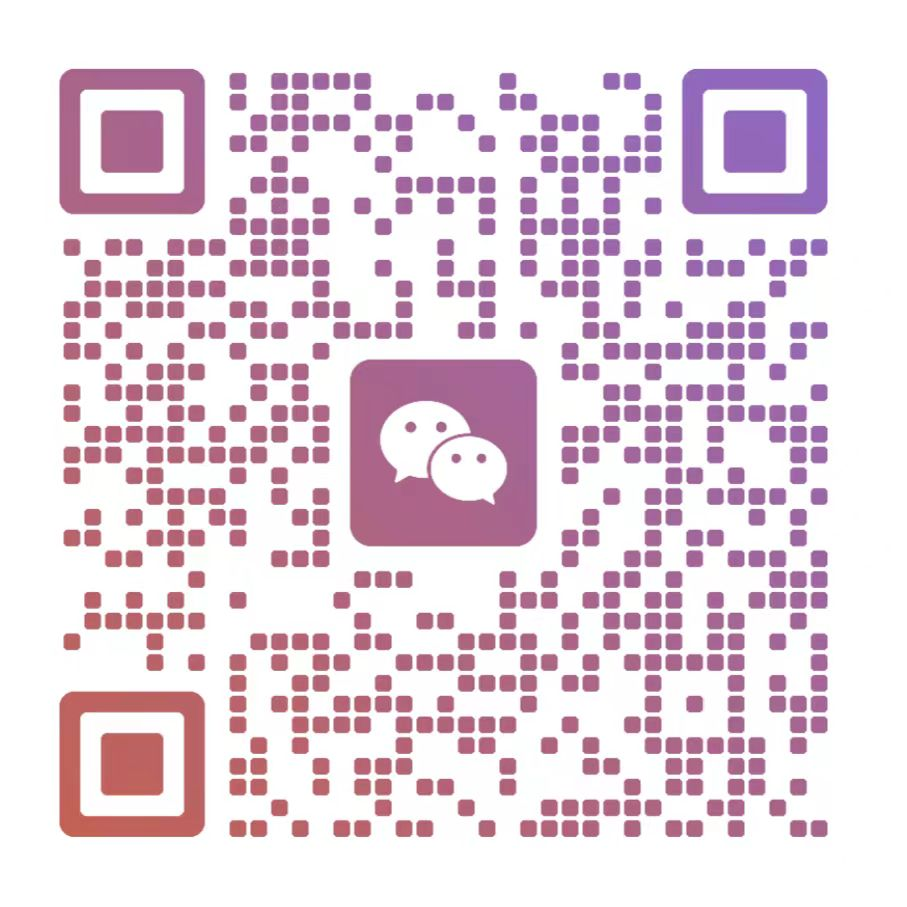
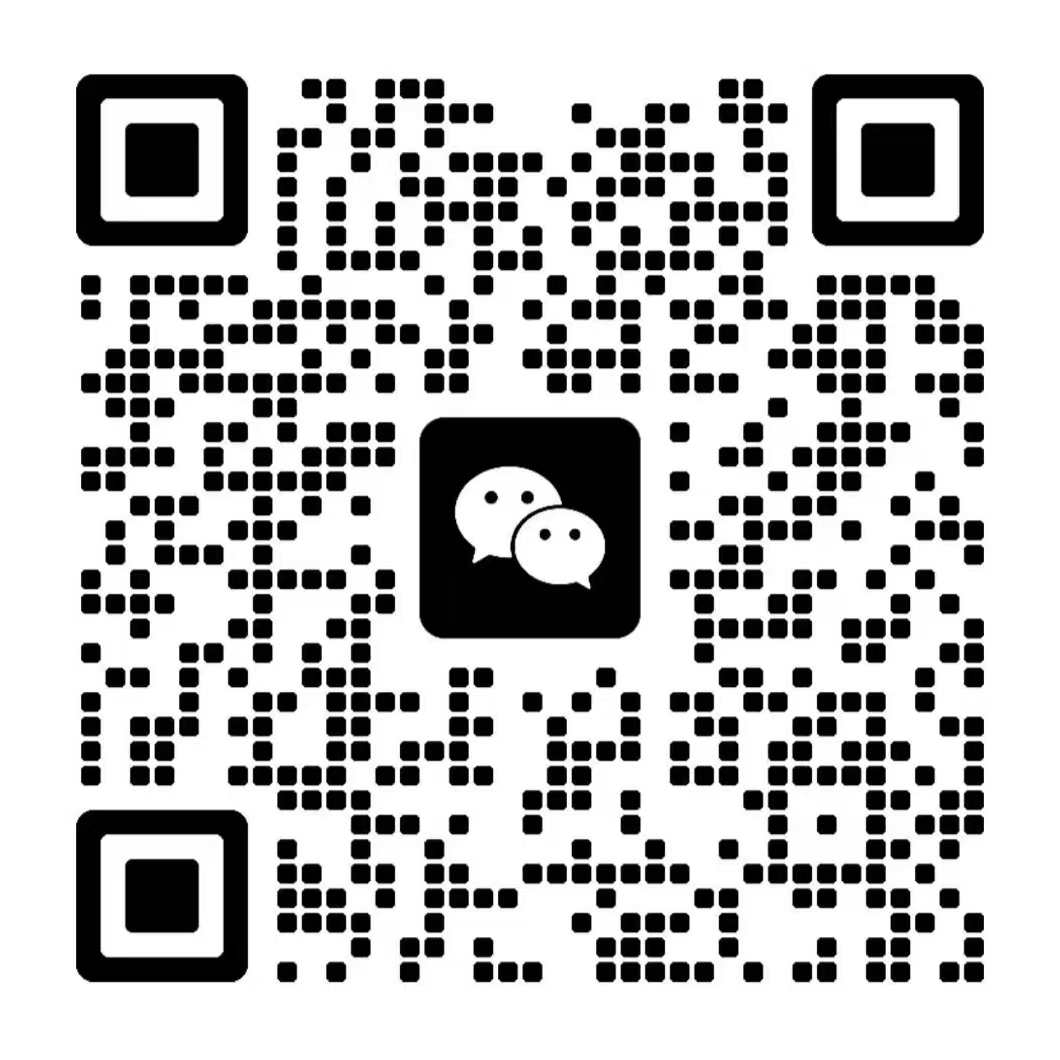
chore: 更新微信二维码图片

diff --git a/index.html b/index.html
@@ -211,9 +211,9 @@
                 <div class="contact-method qr-code-section">
                     <!-- TODO: 上线前替换为你的真实微信二维码图片 -->
                     <img src="images/wechat-qr.jpg" alt="微信二维码" class="qr-image">
-                    <p>微信扫一扫添加管家</p>
-                    <!-- TODO: 替换为真实微信号 -->
-                    <span>微信号: 15035204549</span>
+                    <p>微信扫一扫添加康康</p>
+                    <!-- TODO: 替换为真实微信号                     <span>微信号: 15035204549</span>-->
+
                 </div>
                 <div class="contact-divider"><span>或</span></div>
                 <div class="contact-method phone-section">
